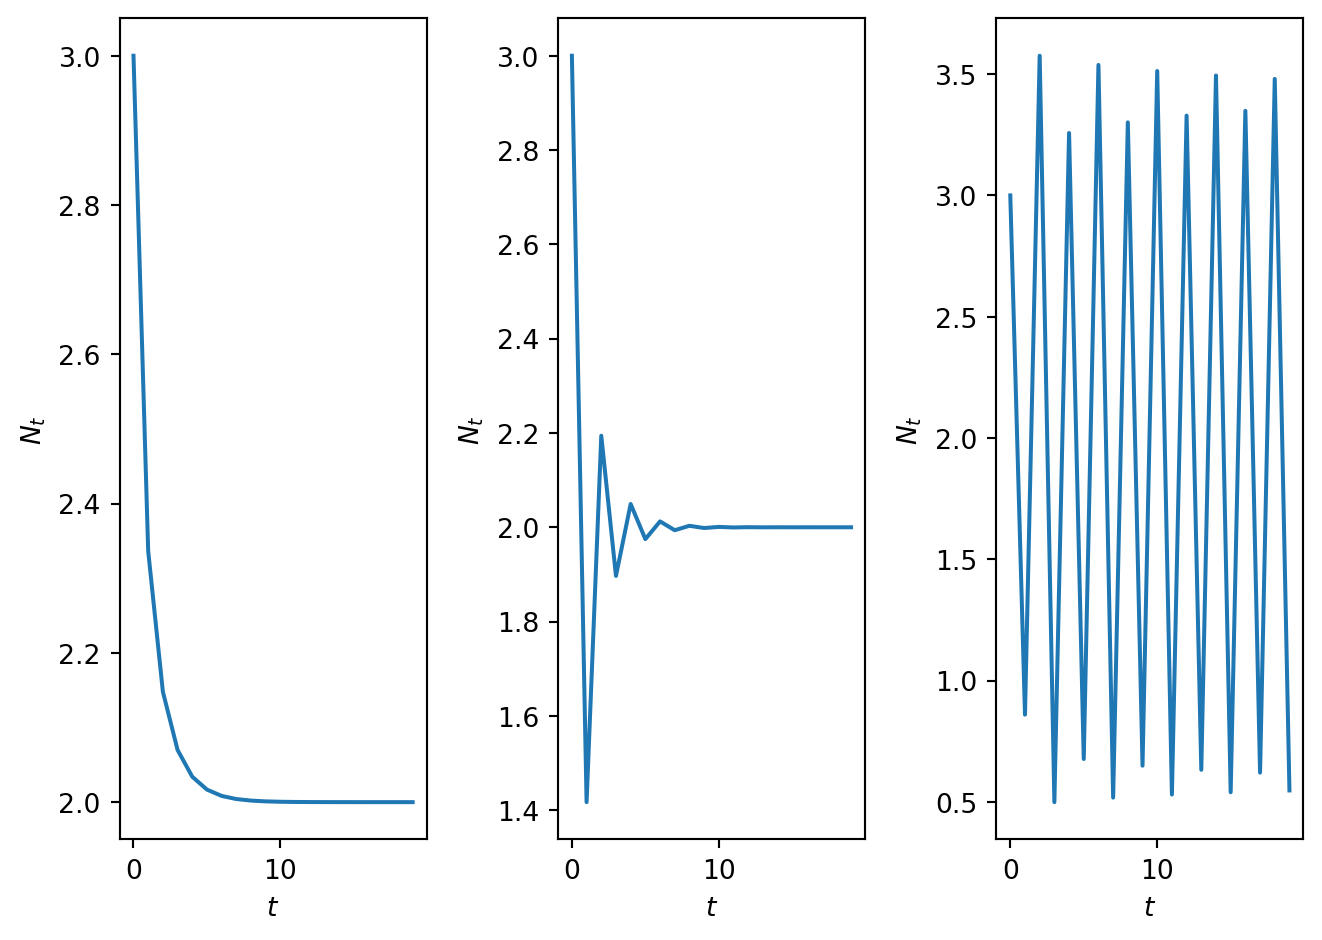
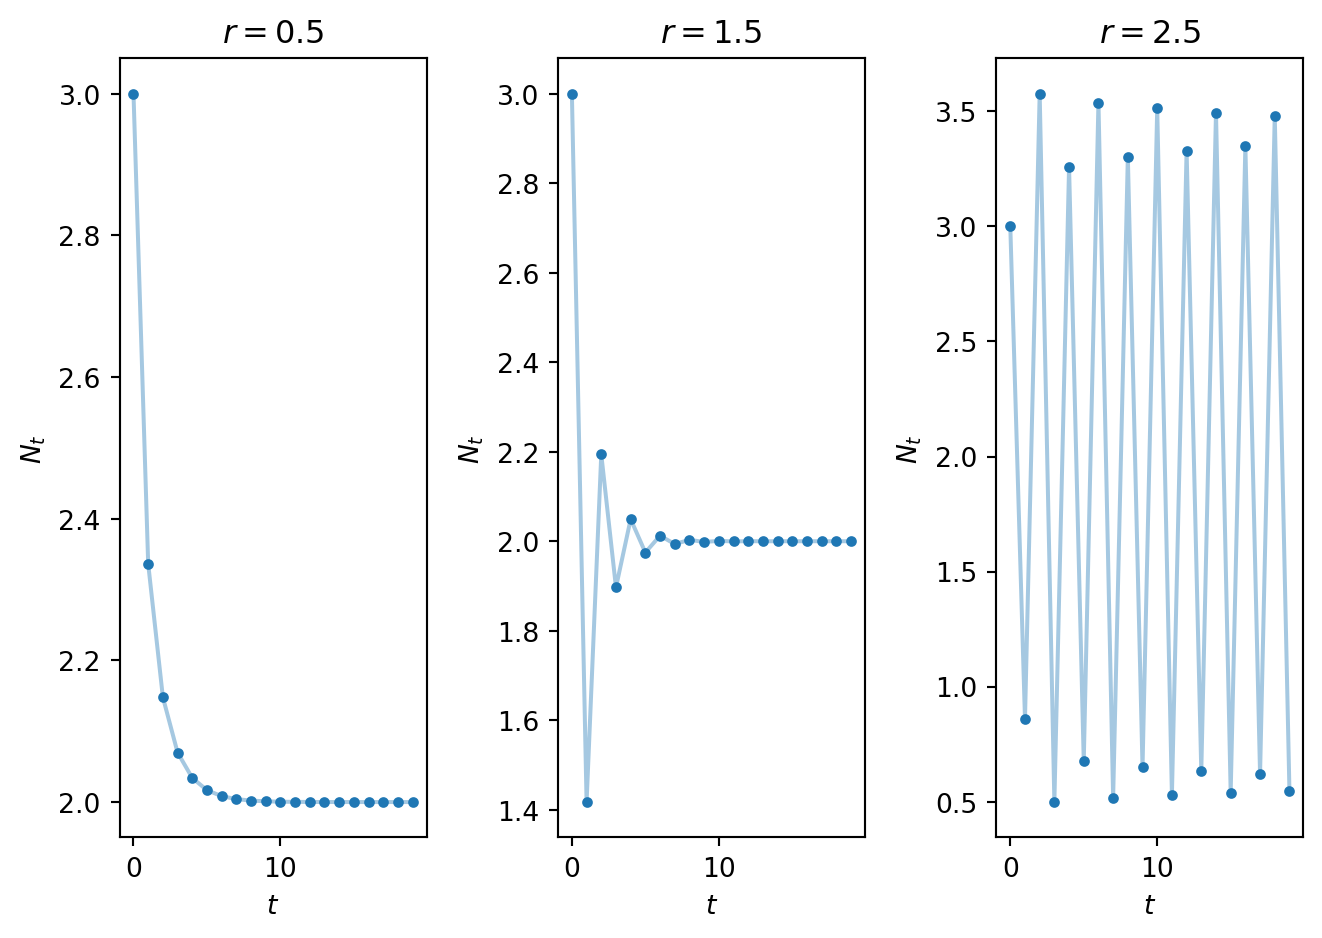
corrected first 3 figures

diff --git a/docs/part1/DiscreteTimeOnePop.html b/docs/part1/DiscreteTimeOnePop.html
@@ -186,7 +186,7 @@ window.Quarto = {
         <li class="sidebar-item">
   <div class="sidebar-item-container"> 
   <a href="../index.html" class="sidebar-item-text sidebar-link">
- <span class="menu-text"></span></a>
+ <span class="menu-text">DI32011: Mathematical Biology I</span></a>
   </div>
 </li>
         <li class="sidebar-item sidebar-item-section">
@@ -515,29 +515,35 @@ N_{t+1}=N_te^{r(1-\frac{N_t}{K})}.
 <span id="cb2-33"><a href="#cb2-33" aria-hidden="true" tabindex="-1"></a></span>
 <span id="cb2-34"><a href="#cb2-34" aria-hidden="true" tabindex="-1"></a><span class="co"># Plot solutions</span></span>
 <span id="cb2-35"><a href="#cb2-35" aria-hidden="true" tabindex="-1"></a>fig, ax <span class="op">=</span> plt.subplots(<span class="dv">1</span>,<span class="dv">3</span>)</span>
-<span id="cb2-36"><a href="#cb2-36" aria-hidden="true" tabindex="-1"></a>ax[<span class="dv">0</span>].plot(t, N_1)</span>
-<span id="cb2-37"><a href="#cb2-37" aria-hidden="true" tabindex="-1"></a>ax[<span class="dv">0</span>].set_xlabel(<span class="st">'$t$'</span>)</span>
-<span id="cb2-38"><a href="#cb2-38" aria-hidden="true" tabindex="-1"></a>ax[<span class="dv">0</span>].set_ylabel(<span class="st">'$N_</span><span class="sc">{t}</span><span class="st">$'</span>)</span>
-<span id="cb2-39"><a href="#cb2-39" aria-hidden="true" tabindex="-1"></a></span>
-<span id="cb2-40"><a href="#cb2-40" aria-hidden="true" tabindex="-1"></a>ax[<span class="dv">1</span>].plot(t, N_2)</span>
-<span id="cb2-41"><a href="#cb2-41" aria-hidden="true" tabindex="-1"></a>ax[<span class="dv">1</span>].set_xlabel(<span class="st">'$t$'</span>)</span>
-<span id="cb2-42"><a href="#cb2-42" aria-hidden="true" tabindex="-1"></a>ax[<span class="dv">1</span>].set_ylabel(<span class="st">'$N_</span><span class="sc">{t}</span><span class="st">$'</span>)</span>
-<span id="cb2-43"><a href="#cb2-43" aria-hidden="true" tabindex="-1"></a></span>
-<span id="cb2-44"><a href="#cb2-44" aria-hidden="true" tabindex="-1"></a>ax[<span class="dv">2</span>].plot(t, N_3)</span>
-<span id="cb2-45"><a href="#cb2-45" aria-hidden="true" tabindex="-1"></a>ax[<span class="dv">2</span>].set_xlabel(<span class="st">'$t$'</span>)</span>
-<span id="cb2-46"><a href="#cb2-46" aria-hidden="true" tabindex="-1"></a>ax[<span class="dv">2</span>].set_ylabel(<span class="st">'$N_</span><span class="sc">{t}</span><span class="st">$'</span>)</span>
+<span id="cb2-36"><a href="#cb2-36" aria-hidden="true" tabindex="-1"></a>ax[<span class="dv">0</span>].plot(t, N_1, linestyle<span class="op">=</span><span class="st">'-'</span>, alpha<span class="op">=</span><span class="fl">0.4</span>) <span class="co"># faint line</span></span>
+<span id="cb2-37"><a href="#cb2-37" aria-hidden="true" tabindex="-1"></a>ax[<span class="dv">0</span>].plot(t, N_1, linestyle<span class="op">=</span><span class="st">'None'</span>, marker<span class="op">=</span><span class="st">'o'</span>,color<span class="op">=</span><span class="st">'C0'</span>, ms<span class="op">=</span><span class="dv">3</span>) <span class="co"># solid </span></span>
+<span id="cb2-38"><a href="#cb2-38" aria-hidden="true" tabindex="-1"></a>ax[<span class="dv">0</span>].set_xlabel(<span class="st">'$t$'</span>)</span>
+<span id="cb2-39"><a href="#cb2-39" aria-hidden="true" tabindex="-1"></a>ax[<span class="dv">0</span>].set_ylabel(<span class="st">'$N_</span><span class="sc">{t}</span><span class="st">$'</span>)</span>
+<span id="cb2-40"><a href="#cb2-40" aria-hidden="true" tabindex="-1"></a>ax[<span class="dv">0</span>].set_title(<span class="st">'$r = 0.5$'</span>)</span>
+<span id="cb2-41"><a href="#cb2-41" aria-hidden="true" tabindex="-1"></a></span>
+<span id="cb2-42"><a href="#cb2-42" aria-hidden="true" tabindex="-1"></a>ax[<span class="dv">1</span>].plot(t, N_2, linestyle<span class="op">=</span><span class="st">'-'</span>, alpha<span class="op">=</span><span class="fl">0.4</span>) <span class="co"># faint line</span></span>
+<span id="cb2-43"><a href="#cb2-43" aria-hidden="true" tabindex="-1"></a>ax[<span class="dv">1</span>].plot(t, N_2, linestyle<span class="op">=</span><span class="st">'None'</span>, marker<span class="op">=</span><span class="st">'o'</span>,color<span class="op">=</span><span class="st">'C0'</span>, ms<span class="op">=</span><span class="dv">3</span>) <span class="co"># solid </span></span>
+<span id="cb2-44"><a href="#cb2-44" aria-hidden="true" tabindex="-1"></a>ax[<span class="dv">1</span>].set_xlabel(<span class="st">'$t$'</span>)</span>
+<span id="cb2-45"><a href="#cb2-45" aria-hidden="true" tabindex="-1"></a>ax[<span class="dv">1</span>].set_ylabel(<span class="st">'$N_</span><span class="sc">{t}</span><span class="st">$'</span>)</span>
+<span id="cb2-46"><a href="#cb2-46" aria-hidden="true" tabindex="-1"></a>ax[<span class="dv">1</span>].set_title(<span class="st">'$r = 1.5$'</span>)</span>
 <span id="cb2-47"><a href="#cb2-47" aria-hidden="true" tabindex="-1"></a></span>
-<span id="cb2-48"><a href="#cb2-48" aria-hidden="true" tabindex="-1"></a>plt.tight_layout()</span>
-<span id="cb2-49"><a href="#cb2-49" aria-hidden="true" tabindex="-1"></a>plt.show()</span></code></pre></div><button title="Copy to Clipboard" class="code-copy-button"><i class="bi"></i></button></div>
+<span id="cb2-48"><a href="#cb2-48" aria-hidden="true" tabindex="-1"></a>ax[<span class="dv">2</span>].plot(t, N_3, linestyle<span class="op">=</span><span class="st">'-'</span>, alpha<span class="op">=</span><span class="fl">0.4</span>) <span class="co"># faint line</span></span>
+<span id="cb2-49"><a href="#cb2-49" aria-hidden="true" tabindex="-1"></a>ax[<span class="dv">2</span>].plot(t, N_3, linestyle<span class="op">=</span><span class="st">'None'</span>, marker<span class="op">=</span><span class="st">'o'</span>,color<span class="op">=</span><span class="st">'C0'</span>, ms<span class="op">=</span><span class="dv">3</span>) <span class="co"># solid</span></span>
+<span id="cb2-50"><a href="#cb2-50" aria-hidden="true" tabindex="-1"></a>ax[<span class="dv">2</span>].set_xlabel(<span class="st">'$t$'</span>)</span>
+<span id="cb2-51"><a href="#cb2-51" aria-hidden="true" tabindex="-1"></a>ax[<span class="dv">2</span>].set_ylabel(<span class="st">'$N_</span><span class="sc">{t}</span><span class="st">$'</span>)</span>
+<span id="cb2-52"><a href="#cb2-52" aria-hidden="true" tabindex="-1"></a>ax[<span class="dv">2</span>].set_title(<span class="st">'$r = 2.5$'</span>)</span>
+<span id="cb2-53"><a href="#cb2-53" aria-hidden="true" tabindex="-1"></a></span>
+<span id="cb2-54"><a href="#cb2-54" aria-hidden="true" tabindex="-1"></a>plt.tight_layout()</span>
+<span id="cb2-55"><a href="#cb2-55" aria-hidden="true" tabindex="-1"></a>plt.show()</span></code></pre></div><button title="Copy to Clipboard" class="code-copy-button"><i class="bi"></i></button></div>
 </details>
 <div class="cell-output cell-output-display">
 <div id="fig-plotricker" class="quarto-float quarto-figure quarto-figure-center anchored">
 <figure class="quarto-float quarto-float-fig figure">
 <div aria-describedby="fig-plotricker-caption-0ceaefa1-69ba-4598-a22c-09a6ac19f8ca">
-<img src="DiscreteTimeOnePop_files/figure-html/fig-plotricker-output-1.png" width="661" height="470" class="figure-img">
+<img src="DiscreteTimeOnePop_files/figure-html/fig-plotricker-output-1.png" width="661" height="469" class="figure-img">
 </div>
 <figcaption class="quarto-float-caption-bottom quarto-float-caption quarto-float-fig" id="fig-plotricker-caption-0ceaefa1-69ba-4598-a22c-09a6ac19f8ca">
-Figure&nbsp;1.2: A plot of numerical solutions of the Ricker model. (a)r=0.5. (b) r=1.5. (c) r=2.5.
+Figure&nbsp;1.2: Numerical solutions of the Ricker model for (a)r=0.5, (b) r=1.5, (c) r=2.5.
 </figcaption>
 </figure>
 </div>
@@ -636,7 +642,9 @@ def server(input, output, session):
 
         # Plot results
         
-        ax[0].plot(t,y)
+        #ax[0].plot(t,y)
+        ax[0].plot(t, y, linestyle='-', alpha=0.4) # faint line
+        ax[0].plot(t, y, linestyle='None', marker='o',color='C0', ms=3) # solid 
         ax[0].set_xlabel('$t$')
         ax[0].set_ylabel('$N_t$')
         ax[0].set_title('Time series')
@@ -2339,8 +2347,8 @@ N_{t+1}=rN_1(1-N_t).
   </script>
 <nav class="page-navigation">
   <div class="nav-page nav-page-previous">
-      <a href="../index.html" class="pagination-link" aria-label="<p style=&quot;text-align:center;&quot;>DI32011: Mathematical Biology</p> I">
-        <i class="bi bi-arrow-left-short"></i> <span class="nav-page-text"></span>
+      <a href="../index.html" class="pagination-link" aria-label="DI32011: Mathematical Biology I">
+        <i class="bi bi-arrow-left-short"></i> <span class="nav-page-text">DI32011: Mathematical Biology I</span>
       </a>          
   </div>
   <div class="nav-page nav-page-next">
